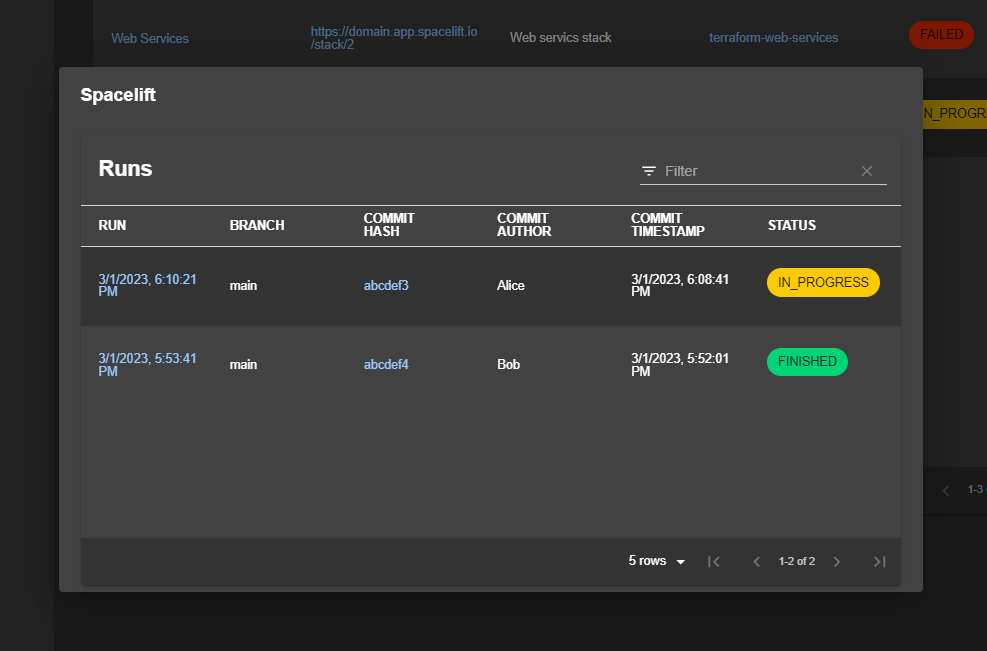
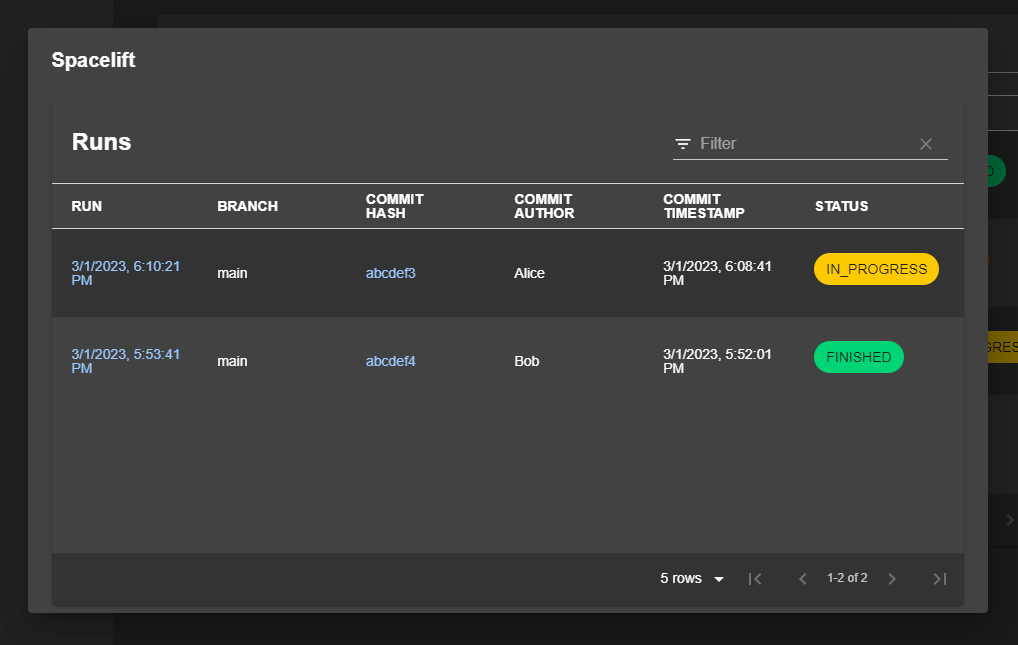
fix typo in mock web services stack

diff --git a/spacelift/dev/fake-spacelift-api.ts b/spacelift/dev/fake-spacelift-api.ts
@@ -16,7 +16,7 @@ export class FakeSpaceliftApi implements SpaceliftApi {
       {
         id: '2',
         name: 'Web Services',
-        description: 'Web servics stack',
+        description: 'Web services stack',
         apiHost: 'https://github.com',
         namespace: 'user',
         repository: 'terraform-web-services',
